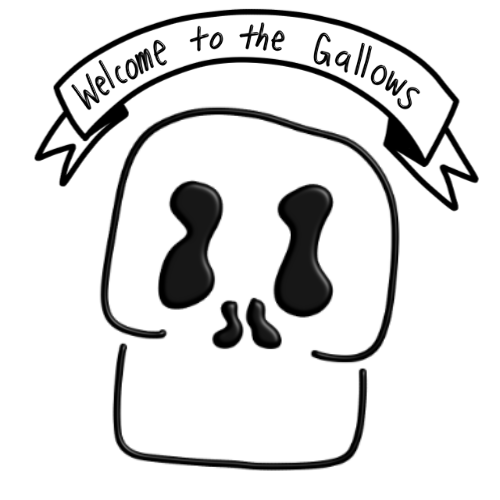
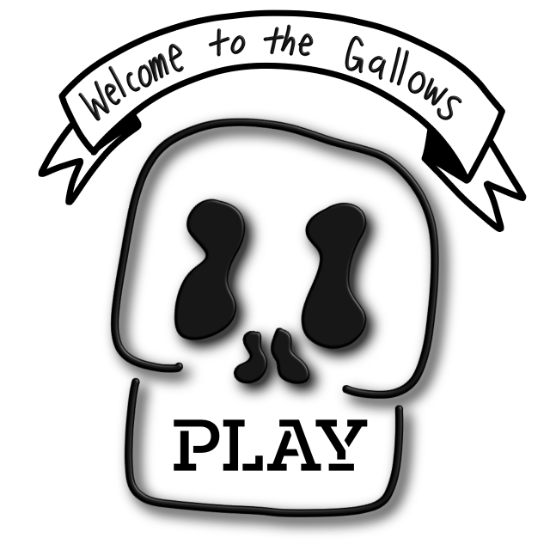
styled

diff --git a/game.html b/game.html
@@ -8,20 +8,25 @@
     <title>Welcome to the Gallows!</title>
 
     <link rel="stylesheet" href="game.css">
-    <link rel="stylesheet" href="https://cdnjs.cloudflare.com/ajax/libs/materialize/0.100.2/css/materialize.min.css">
-   
+    <link href="https://fonts.googleapis.com/css?family=Sanchez" rel="stylesheet">
+
 </head>
 
 <body>
+<br/>
+<br/>
+<br/>
+<br/>
 
     <h1 id="welcome">WELCOME TO THE GALLOWS</h1>
 
     <!--Wrapper Div Holds All Game Pieces-->
     <div id="wrapper">
-
+        
         <!--Secret Word + Answer Display-->
         <p id="answers"></p>
-
+        <br/>
+        <br/>
         <!--Player Guess Input-->
         <div id="guessField">
             <form id="guessForm" name="guessForm">
@@ -32,13 +37,13 @@
 
         <!--Wrong Letters Field-->
         <p id="wrongLetters"><span class="wrongLetters">Wrong Letters: </span></p>
-
+        <br/><br/>
         <!--Hangman Animation Dispaly-->
         <div id="hangmanAnimation"></div>
-
+    
         <!--New Game / Reload Page Button-->
         <input name="newGame" type="button" value="New Game" onClick="location.reload()">
-
+        
     </div>
 
         <audio id="audio" src="renegade.mp3" controls autoplay loop></audio>

diff --git a/index.html b/index.html
@@ -7,19 +7,19 @@
     <title>Hangman in the Gallows</title>
 
     <link rel="stylesheet" href="index.css">
-    <link rel="stylesheet" href="https://cdnjs.cloudflare.com/ajax/libs/materialize/0.100.2/css/materialize.min.css">
-
+    
 </head>
 <body>
+<br/>
+<br/>
+<br/>
+<br/>
+<br/>
+<br/>
 
     <div class="container">
-        <img src="https://i.imgur.com/tOA0brD.png" alt="Welcome to the Gallows, Hangman!" />
-        <div class="play"><a href="game.html">PLAY</a></div>
+        <a href="game.html"><img src="https://i.imgur.com/T4ekItr.png" alt="Welcome to the Gallows, Hangman!" /></a>
     </div>
-
-   <!-- <ul>
-        <li><a href="game.html"><img src="https://i.imgur.com/tOA0brD.png" alt="Welcome to the Gallows, Hangman!"><span>PLAY</span></a></li>
-    </ul> -->
 
 </body>
 </html>

diff --git a/game.css b/game.css
@@ -4,6 +4,7 @@ body {
     justify-content: center;
     flex-direction: column;
     align-items: center;
+    font-family: 'Sanchez', serif;
 }
 
 #wrapper {

diff --git a/index.css b/index.css
@@ -6,8 +6,3 @@ body {
     align-items: center;
 }
 
-.play {
-    position: absolute;
-    left: 350px;
-    top: 400px;
-}

diff --git a/README.md b/README.md
@@ -5,5 +5,10 @@
 # Description
     This game is a very simple, one-player version of the childhood classic Hangman. The theme is based off of the song "Renegade" by Styx. On launch you will be directed to the main page where you will be able to click 'PLAY'. This link will direct you to the game page. To play you must enter a letter of your choosing into the text field and click 'Guess'. The secret words (lyrics from "Renegade") are randomized and the player must try to guess what the word is. The plaeyer has six "lives" allowing them to incorrectly guess six times. If the player incorectly guesses six times, they will receive an alert saying they have lost. If the player correctly guesses the secret word, they will receive an alert saying they won the game. From there the player can click 'New Game' to try again with a new randomly generated secret word.
 
+# Technologies Used
+    Languages - HTML5, CSS3, JavaScript, jQuery
+    Design - MaterializeCSS
+    
+
 # Github Link: https://github.com/grantspell/project_one
 # Trello Link: https://trello.com/b/02iHeEix/project-one
